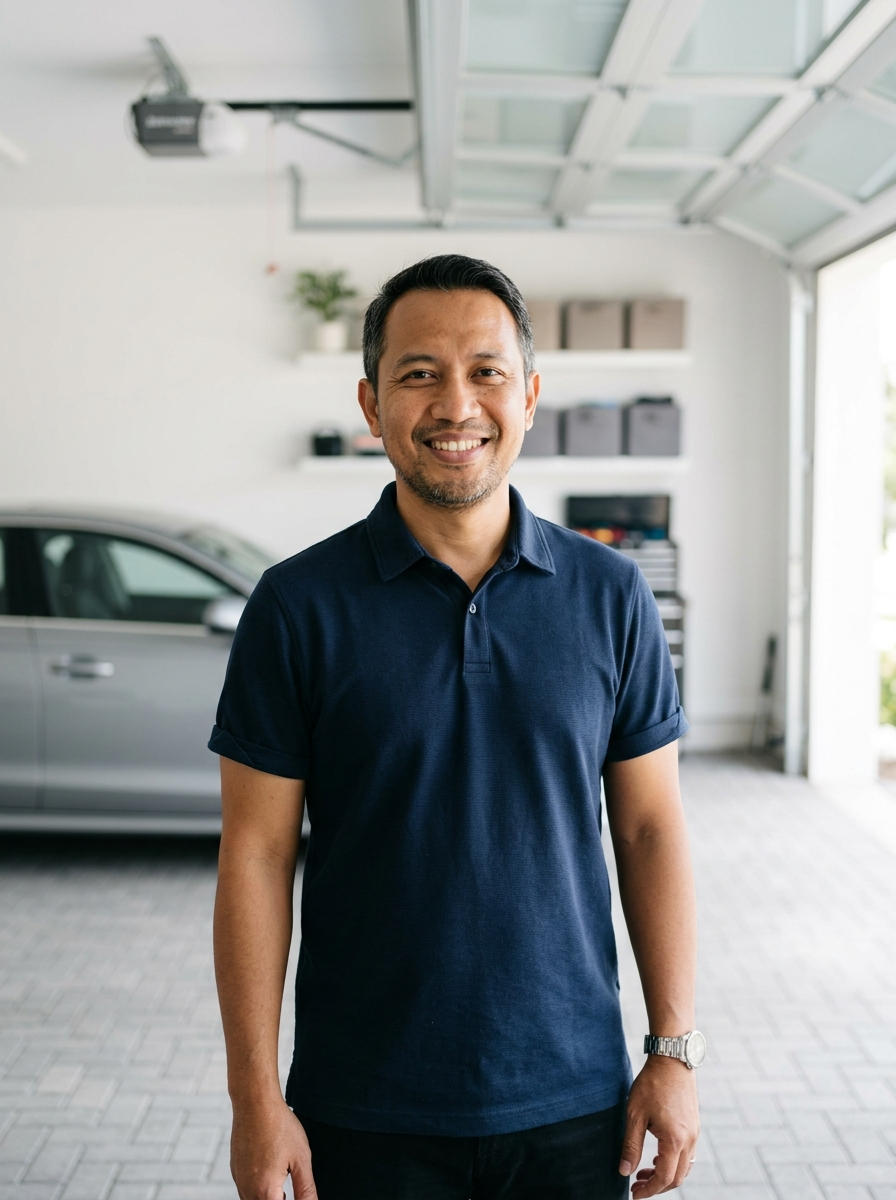
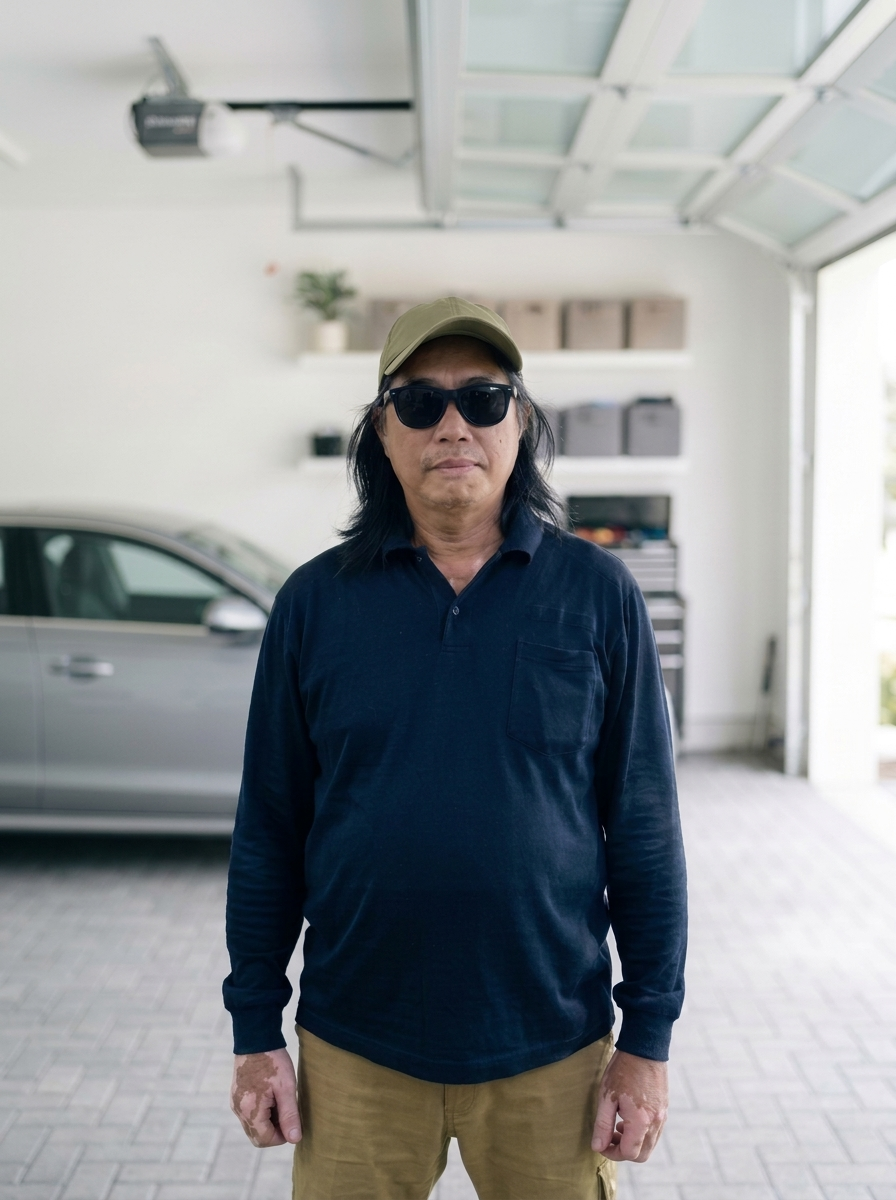
feat: penyesuaian pengelola garasi

Changed region(s): [[0.2188, 0.2158, 0.7812, 1.0], [0.8438, 0.5242, 0.875, 0.555], [0.5, 0.7708, 0.5312, 0.8017]]

diff --git a/index.html b/index.html
@@ -871,14 +871,14 @@
 
                 <!-- Kolom 1: Branding, Deskripsi & Status Layanan -->
                 <div class="footer-col footer-col-brand">
-                    <a href="#beranda" class="footer-brand" aria-label="Beranda Garasiku">
+                    <div class="footer-brand">
                         <img src="public/branding/garasiku%20logo.webp" alt="Logo Garasiku" class="footer-logo"
                             width="40" height="40">
                         <div class="footer-brand-text">
                             <span class="footer-brand-name">Garasiku</span>
                             <span class="footer-brand-tagline">Sewa Garasi Nyaman &amp; Terpercaya</span>
                         </div>
-                    </a>
+                    </div>
                     <p class="footer-desc">
                         Solusi parkir mobil bulanan beratap teduh dan aman di dalam lingkungan komplek perumahan yang
                         tenang dengan jalan leluasa dan pagar buka-tutup mandiri 24 jam.

diff --git a/style.css b/style.css
@@ -2317,13 +2317,8 @@ body {
     display: inline-flex;
     align-items: center;
     gap: 12px;
-    text-decoration: none;
     margin-bottom: 16px;
-    transition: var(--transition);
-}
-
-.footer-brand:hover {
-    opacity: 0.92;
+    user-select: none;
 }
 
 .footer-logo {
